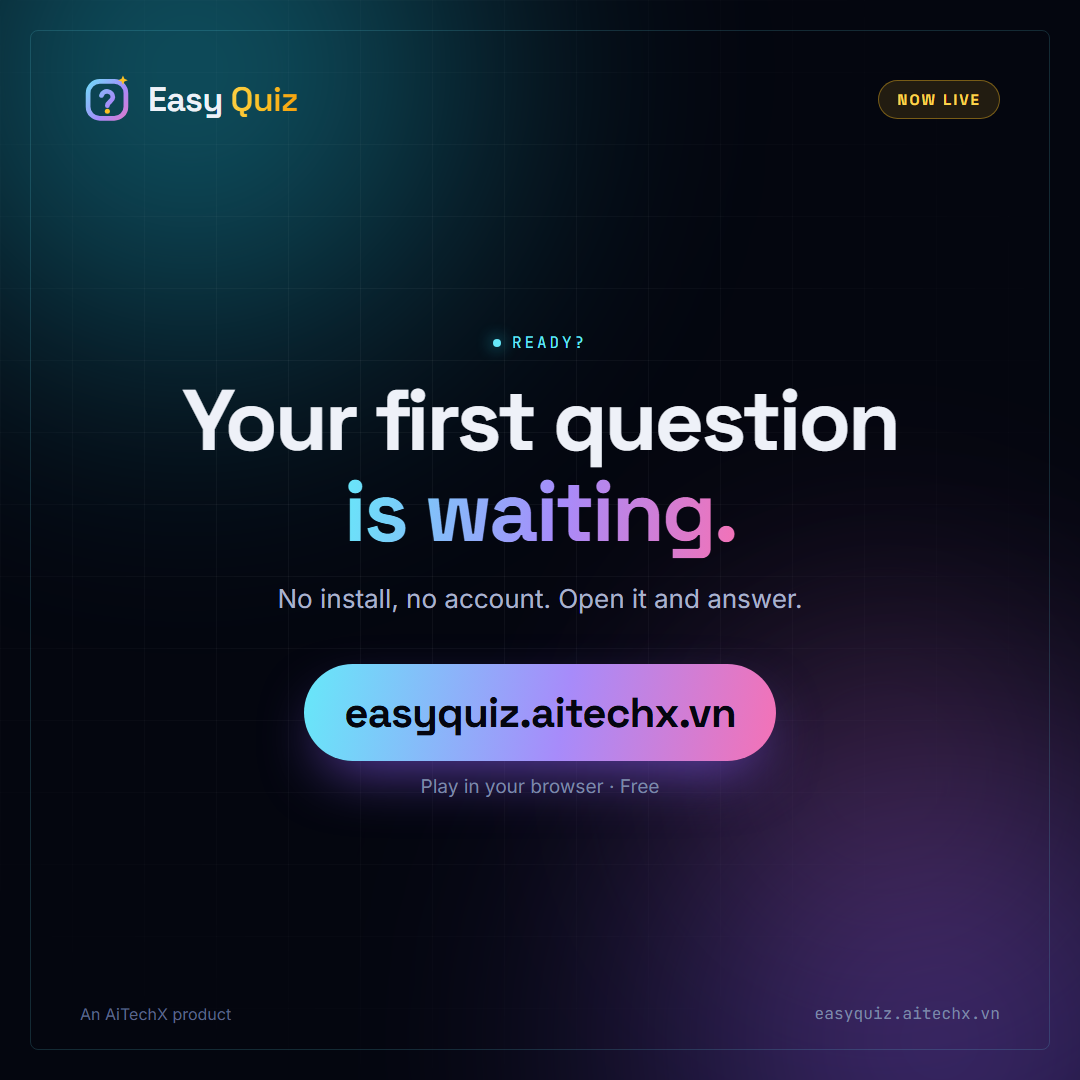
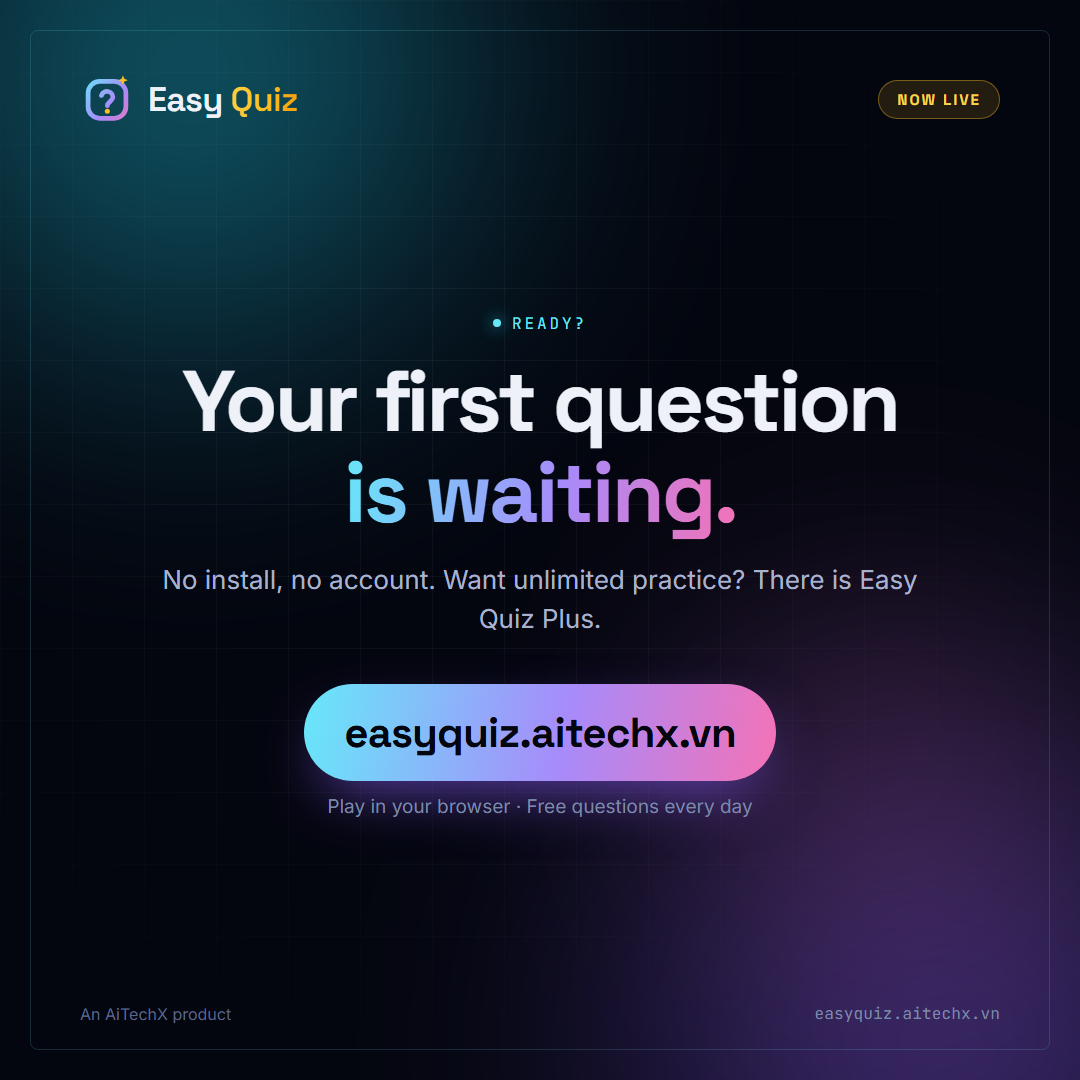
refresh promo graphics and switch the tagline to "Mở lên chơi ngay"
- Promo cards now match the current app: curriculum topics (Lớp 3–9,
  Toán / Tiếng Anh / KHTN / Công nghệ / logic), the real Endless stop
  summary, the 30/60 daily free allowance and Easy Quiz Plus.
- Fix the guest avatar emoji being shrunk by the label style.
- Tagline "Mở lên là hỏi" → "Mở lên chơi ngay" across site meta, landing,
  Remotion hero, OG image and README; OG headline shrunk to fit two lines.

Changed region(s): [[0.1528, 0.275, 0.8556, 0.5806], [0.275, 0.6111, 0.7333, 0.7639]]

diff --git a/scripts/promo-graphics.html b/scripts/promo-graphics.html
@@ -461,6 +461,20 @@
         font-weight: 600;
       }
 
+      .summary-sub {
+        margin-top: 4px;
+        color: #7d88a8;
+        font-size: 14px;
+      }
+
+      .stat-correct b {
+        color: #34d399;
+      }
+
+      .stat-spark b {
+        color: #fcd34d;
+      }
+
       .stats {
         display: grid;
         grid-template-columns: repeat(2, 1fr);
@@ -662,7 +676,7 @@
         font-size: 21px;
       }
 
-      .guest-head span {
+      .guest-head div span {
         display: block;
         margin-top: 2px;
         color: #7d88a8;
@@ -714,6 +728,30 @@
         justify-content: center;
         gap: 12px;
         max-width: 430px;
+      }
+
+      .topics-stack {
+        display: flex;
+        flex-direction: column;
+        align-items: center;
+        gap: 18px;
+      }
+
+      .grade-pill {
+        padding: 10px 22px;
+        border: 1px solid rgb(251 191 36 / 0.45);
+        border-radius: 999px;
+        background: rgb(251 191 36 / 0.1);
+        color: #fcd34d;
+        font-family: "Space Grotesk", Inter, sans-serif;
+        font-size: 22px;
+        font-weight: 700;
+      }
+
+      .topics-note {
+        color: #7d88a8;
+        font-size: 14px;
+        text-align: center;
       }
 
       .topic {
@@ -825,13 +863,14 @@
           footer: 'Một sản phẩm của AiTechX',
           summary: 'TỔNG KẾT',
           stopped: 'Đã dừng',
-          session: 'Phiên luyện của bạn',
-          statQuestions: 'câu đã làm',
-          statAccuracy: 'chính xác',
-          statStreak: 'chuỗi dài nhất',
-          statTime: 'thời gian',
-          keepGoing: 'Tiếp tục',
-          home: 'Về nhà',
+          session: 'Phiên luyện tập',
+          stoppedAfter: (time) => `Bạn đã dừng sau ${time}.`,
+          statQuestions: 'Đã làm',
+          statCorrect: 'Đúng',
+          statAccuracy: 'Chính xác',
+          statStreak: 'Chuỗi dài nhất',
+          keepGoing: 'Chơi tiếp',
+          home: 'Trang chủ',
           scoreNote: 'điểm · chuỗi 7',
           you: 'Bạn',
           streakLabel: 'câu đúng liên tiếp',
@@ -841,7 +880,7 @@
           guestAccuracy: 'Chính xác',
           save: 'Lưu kết quả của bạn',
           endless: '∞ VÔ TẬN',
-          ctaSub: 'Chơi ngay trên trình duyệt · Miễn phí',
+          ctaSub: 'Chơi ngay trên trình duyệt · Có câu miễn phí mỗi ngày',
           questions: (n) => `${n} câu`,
         },
         en: {
@@ -849,12 +888,13 @@
           footer: 'An AiTechX product',
           summary: 'SUMMARY',
           stopped: 'Stopped',
-          session: 'Your session',
-          statQuestions: 'questions done',
-          statAccuracy: 'accuracy',
-          statStreak: 'longest streak',
-          statTime: 'time',
-          keepGoing: 'Keep going',
+          session: 'Practice session',
+          stoppedAfter: (time) => `You stopped after ${time}.`,
+          statQuestions: 'Answered',
+          statCorrect: 'Correct',
+          statAccuracy: 'Accuracy',
+          statStreak: 'Longest streak',
+          keepGoing: 'Play on',
           home: 'Home',
           scoreNote: 'points · streak 7',
           you: 'You',
@@ -865,7 +905,7 @@
           guestAccuracy: 'Accuracy',
           save: 'Save your results',
           endless: '∞ ENDLESS',
-          ctaSub: 'Play in your browser · Free',
+          ctaSub: 'Play in your browser · Free questions every day',
           questions: (n) => `${n} questions`,
         },
       }
@@ -940,11 +980,12 @@
           <div class="summary">
             <div class="summary-top"><span>${ui.summary}</span><span class="pill">${ui.stopped}</span></div>
             <h3>${ui.session}</h3>
+            <p class="summary-sub">${ui.stoppedAfter('02:41')}</p>
             <div class="stats">
               <div class="stat"><b>18</b><span>${ui.statQuestions}</span></div>
+              <div class="stat stat-correct"><b>15</b><span>${ui.statCorrect}</span></div>
               <div class="stat"><b>83%</b><span>${ui.statAccuracy}</span></div>
-              <div class="stat"><b>7</b><span>${ui.statStreak}</span></div>
-              <div class="stat"><b>02:41</b><span>${ui.statTime}</span></div>
+              <div class="stat stat-spark"><b>7</b><span>${ui.statStreak}</span></div>
             </div>
             <div class="summary-actions">
               <span class="btn-primary">${ui.keepGoing}</span>
@@ -1016,12 +1057,18 @@
       function topicsCard(lang) {
         const topics =
           lang === 'vi'
-            ? ['🔢 Toán học', '🏛 Lịch sử', '🔬 Khoa học', '📖 Ngữ văn', '🌏 Địa lý', '💻 Tin học', '🎨 Nghệ thuật', '⚽ Thể thao']
-            : ['🔢 Math', '🏛 History', '🔬 Science', '📖 Literature', '🌏 Geography', '💻 Computing', '🎨 Art', '⚽ Sport']
+            ? ['🔢 Toán', '🔤 Tiếng Anh', '🔬 KHTN', '🛠 Công nghệ', '🧩 Tư duy logic']
+            : ['🔢 Math', '🔤 English', '🔬 Natural Science', '🛠 Technology', '🧩 Logic']
 
-        return `<div class="topics">${topics
-          .map((topic) => `<span class="topic">${topic}</span>`)
-          .join('')}</div>`
+        const grades = lang === 'vi' ? 'Lớp 3 → Lớp 9' : 'Grades 3 → 9'
+        const books = lang === 'vi' ? 'Theo SGK Kết nối tri thức · Global Success' : 'Follows the KNTT and Global Success textbooks'
+
+        return `
+          <div class="topics-stack">
+            <span class="grade-pill">${grades}</span>
+            <div class="topics">${topics.map((topic) => `<span class="topic">${topic}</span>`).join('')}</div>
+            <span class="topics-note">${books}</span>
+          </div>`
       }
 
       function phoneCard(lang) {
@@ -1067,13 +1114,13 @@
           {
             layout: 'split',
             kicker: 'Ra mắt',
-            headline: 'Mở lên là hỏi,<br><span class="gradient">dừng tùy thích.</span>',
+            headline: 'Mở lên chơi ngay,<br><span class="gradient">dừng tùy thích.</span>',
             lede: 'Trắc nghiệm tức thì — không màn hình chờ, không cần tài khoản.',
             visual: questionCard('vi', {
-              tag: 'Địa lý',
+              tag: 'Toán 5',
               step: 'Câu 4 / 10',
-              question: 'Thủ đô của Việt Nam là thành phố nào?',
-              options: ['Hà Nội', 'Huế', 'Đà Nẵng', 'TP. Hồ Chí Minh'],
+              question: '0,5 + 0,25 bằng bao nhiêu?',
+              options: ['0,75', '0,30', '0,525', '7,5'],
               correct: 0,
               score: '+120',
             }),
@@ -1115,7 +1162,7 @@
             visual: `
               <div class="visual-stack">
                 ${questionCard('vi', {
-                  tag: 'Khoa học',
+                  tag: 'KHTN 6',
                   step: 'Câu 03',
                   question: 'Hành tinh nào gần Mặt Trời nhất?',
                   options: ['Sao Kim', 'Sao Thuỷ', 'Trái Đất', 'Sao Hoả'],
@@ -1141,14 +1188,14 @@
             layout: 'split',
             kicker: 'Không cần tài khoản',
             headline: 'Vào là chơi.<br><span class="gradient">Lưu sau cũng được.</span>',
-            lede: 'Không email, không mật khẩu. Kết quả vẫn được giữ khi bạn muốn tạo tài khoản.',
+            lede: 'Khách có 30 câu miễn phí mỗi ngày. Tạo tài khoản để lên 60 câu — kết quả cũ vẫn được giữ.',
             visual: guestCard('vi'),
           },
           {
             layout: 'split',
-            kicker: 'Mọi chủ đề',
-            headline: 'Toán, Lịch sử,<br><span class="gradient">Khoa học…</span>',
-            lede: 'Chọn môn bạn thích, hoặc để Easy Quiz chọn theo thế mạnh của bạn.',
+            kicker: 'Bám sát chương trình',
+            headline: 'Ôn bài từ<br><span class="gradient">lớp 3 đến lớp 9.</span>',
+            lede: 'Chọn Lớp › Môn › Chủ đề, hoặc để Easy Quiz chọn theo thế mạnh của bạn.',
             visual: topicsCard('vi'),
           },
           {
@@ -1162,7 +1209,7 @@
             layout: 'center',
             kicker: 'Sẵn sàng chưa?',
             headline: 'Câu hỏi đầu tiên<br><span class="gradient">đang chờ bạn.</span>',
-            lede: 'Không cần cài đặt, không cần tài khoản. Mở lên là hỏi ngay.',
+            lede: 'Không cần cài đặt, không cần tài khoản. Muốn luyện không giới hạn? Có Easy Quiz Plus.',
             visual: ctaCard('vi'),
           },
         ],
@@ -1174,10 +1221,10 @@
             headline: 'Open. Answer.<br><span class="gradient">Stop anytime.</span>',
             lede: 'Instant quizzes — no waiting screen, no account needed.',
             visual: questionCard('en', {
-              tag: 'Geography',
+              tag: 'Math 5',
               step: 'Question 4 / 10',
-              question: 'What is the capital of Vietnam?',
-              options: ['Hanoi', 'Hue', 'Da Nang', 'Ho Chi Minh City'],
+              question: 'What is 0.5 + 0.25?',
+              options: ['0.75', '0.30', '0.525', '7.5'],
               correct: 0,
               score: '+120',
             }),
@@ -1219,7 +1266,7 @@
             visual: `
               <div class="visual-stack">
                 ${questionCard('en', {
-                  tag: 'Science',
+                  tag: 'Science 6',
                   step: 'Question 03',
                   question: 'Which planet is closest to the Sun?',
                   options: ['Venus', 'Mercury', 'Earth', 'Mars'],
@@ -1245,14 +1292,14 @@
             layout: 'split',
             kicker: 'No account needed',
             headline: 'Jump in and play.<br><span class="gradient">Save it later.</span>',
-            lede: 'No email, no password. Your results stay with you when you are ready to create an account.',
+            lede: 'Guests get 30 free questions a day. Create an account for 60 — and keep everything you already played.',
             visual: guestCard('en'),
           },
           {
             layout: 'split',
-            kicker: 'Every subject',
-            headline: 'Math, history,<br><span class="gradient">science…</span>',
-            lede: 'Pick the subjects you love, or let Easy Quiz choose based on your strengths.',
+            kicker: 'Built on the curriculum',
+            headline: 'Review for<br><span class="gradient">grades 3 to 9.</span>',
+            lede: 'Pick grade › subject › topic, or let Easy Quiz choose based on your strengths.',
             visual: topicsCard('en'),
           },
           {
@@ -1266,7 +1313,7 @@
             layout: 'center',
             kicker: 'Ready?',
             headline: 'Your first question<br><span class="gradient">is waiting.</span>',
-            lede: 'No install, no account. Open it and answer.',
+            lede: 'No install, no account. Want unlimited practice? There is Easy Quiz Plus.',
             visual: ctaCard('en'),
           },
         ],

diff --git a/index.html b/index.html
@@ -10,7 +10,7 @@
       tags on every client-side navigation. Anything a crawler cannot execute
       JavaScript for gets this honest fallback.
     -->
-    <title>Easy Quiz — Mở lên là hỏi, dừng tùy thích | AiTechX</title>
+    <title>Easy Quiz — Mở lên chơi ngay, dừng tùy thích | AiTechX</title>
     <meta
       name="description"
       content="Easy Quiz là nền tảng trắc nghiệm tức thì của AiTechX: mở lên là có câu hỏi ngay, không màn hình chờ, không bắt buộc tài khoản. Mỗi câu được chấm liền tay và chọn theo trình độ của bạn — và bạn dừng lúc nào cũng được."
@@ -27,7 +27,7 @@
     <meta property="og:type" content="website" />
     <meta property="og:site_name" content="Easy Quiz" />
     <meta property="og:locale" content="vi_VN" />
-    <meta property="og:title" content="Easy Quiz — Mở lên là hỏi, dừng tùy thích" />
+    <meta property="og:title" content="Easy Quiz — Mở lên chơi ngay, dừng tùy thích" />
     <meta
       property="og:description"
       content="Trắc nghiệm tức thì: mở lên là có câu hỏi ngay, không cần tài khoản, chấm điểm liền tay, và dừng lúc nào cũng được."
@@ -39,12 +39,12 @@
     <meta property="og:image:height" content="630" />
     <meta
       property="og:image:alt"
-      content="Easy Quiz — Mở lên là hỏi, dừng tùy thích. Nền tảng trắc nghiệm của AiTechX."
+      content="Easy Quiz — Mở lên chơi ngay, dừng tùy thích. Nền tảng trắc nghiệm của AiTechX."
     />
 
     <!-- Twitter / X -->
     <meta name="twitter:card" content="summary_large_image" />
-    <meta name="twitter:title" content="Easy Quiz — Mở lên là hỏi, dừng tùy thích" />
+    <meta name="twitter:title" content="Easy Quiz — Mở lên chơi ngay, dừng tùy thích" />
     <meta
       name="twitter:description"
       content="Trắc nghiệm tức thì: mở lên là có câu hỏi ngay, không cần tài khoản, chấm điểm liền tay, và dừng lúc nào cũng được."
@@ -52,7 +52,7 @@
     <meta name="twitter:image" content="https://easyquiz.aitechx.vn/og-image.png" />
     <meta
       name="twitter:image:alt"
-      content="Easy Quiz — Mở lên là hỏi, dừng tùy thích. Nền tảng trắc nghiệm của AiTechX."
+      content="Easy Quiz — Mở lên chơi ngay, dừng tùy thích. Nền tảng trắc nghiệm của AiTechX."
     />
 
     <link rel="preconnect" href="https://fonts.googleapis.com" />

diff --git a/src/routes/landing-page.tsx b/src/routes/landing-page.tsx
@@ -30,7 +30,7 @@ import { cn } from '@/lib/utils'
 const PILLARS = [
   {
     icon: Zap,
-    title: 'Mở lên là hỏi ngay',
+    title: 'Mở lên chơi ngay',
     description:
       'Không màn hình chờ, không nút bắt đầu. Câu hỏi đầu tiên có mặt ngay khi trang mở, và bạn dừng lúc nào cũng được.',
     tone: 'neon' as const,
@@ -116,7 +116,7 @@ export function LandingPage() {
 
               <Reveal delay={0.06}>
                 <h1 className="font-display mt-5 text-4xl font-semibold tracking-tight sm:text-5xl lg:text-6xl lg:leading-[1.05]">
-                  Mở lên là hỏi,
+                  Mở lên chơi ngay,
                   <br />
                   <span className="text-gradient-spark">dừng tùy thích.</span>
                 </h1>

diff --git a/scripts/og-image.html b/scripts/og-image.html
@@ -125,7 +125,7 @@
       h1 {
         margin-top: 34px;
         font-family: "Space Grotesk", Inter, sans-serif;
-        font-size: 82px;
+        font-size: 72px;
         font-weight: 700;
         line-height: 1.02;
         letter-spacing: -0.035em;
@@ -318,7 +318,7 @@
         <span class="wordmark">Easy<span class="spark"> Quiz</span></span>
       </div>
 
-      <h1>Mở lên là hỏi,<br /><span class="gradient">dừng tùy thích.</span></h1>
+      <h1>Mở lên chơi ngay,<br /><span class="gradient">dừng tùy thích.</span></h1>
 
       <p class="lede">
         Trắc nghiệm tức thì: mở lên là có câu hỏi ngay, không cần tài khoản, chấm điểm liền tay,

diff --git a/src/lib/site.ts b/src/lib/site.ts
@@ -16,7 +16,7 @@ export const SITE_URL = (
   rawSiteUrl && rawSiteUrl !== '' ? rawSiteUrl : 'https://easyquiz.aitechx.vn'
 ).replace(/\/+$/, '')
 
-export const TAGLINE = 'Mở lên là hỏi, dừng tùy thích'
+export const TAGLINE = 'Mở lên chơi ngay, dừng tùy thích'
 
 export const APP_DESCRIPTION =
   'Mở lên là có câu hỏi ngay — không màn hình chờ, không bắt buộc tài khoản, và dừng lúc nào cũng được. Mỗi câu được chấm tức thì và chọn theo trình độ của bạn, để việc luyện tập vừa nhanh vừa vui.'

diff --git a/src/remotion/landing-hero.tsx b/src/remotion/landing-hero.tsx
@@ -33,7 +33,7 @@ export type LandingHeroProps = {
 }
 
 export const landingHeroDefaults: LandingHeroProps = {
-  headline: 'Mở lên là hỏi ngay',
+  headline: 'Mở lên chơi ngay',
   subhead: 'Trắc nghiệm tức thì · Chấm liền tay, dừng tùy thích',
   question: 'Thủ đô của Việt Nam là thành phố nào?',
   options: ['Hà Nội', 'Huế', 'Đà Nẵng', 'TP. Hồ Chí Minh'],

diff --git a/README.md b/README.md
@@ -1,6 +1,6 @@
 # Easy Quiz
 
-> Mở lên là hỏi, dừng tùy thích.
+> Mở lên chơi ngay, dừng tùy thích.
 
 An instant-play quiz platform from **AiTechX**: open it and the first question is already on
 screen — no waiting screen, no account required — and you stop whenever you like. Answers are
